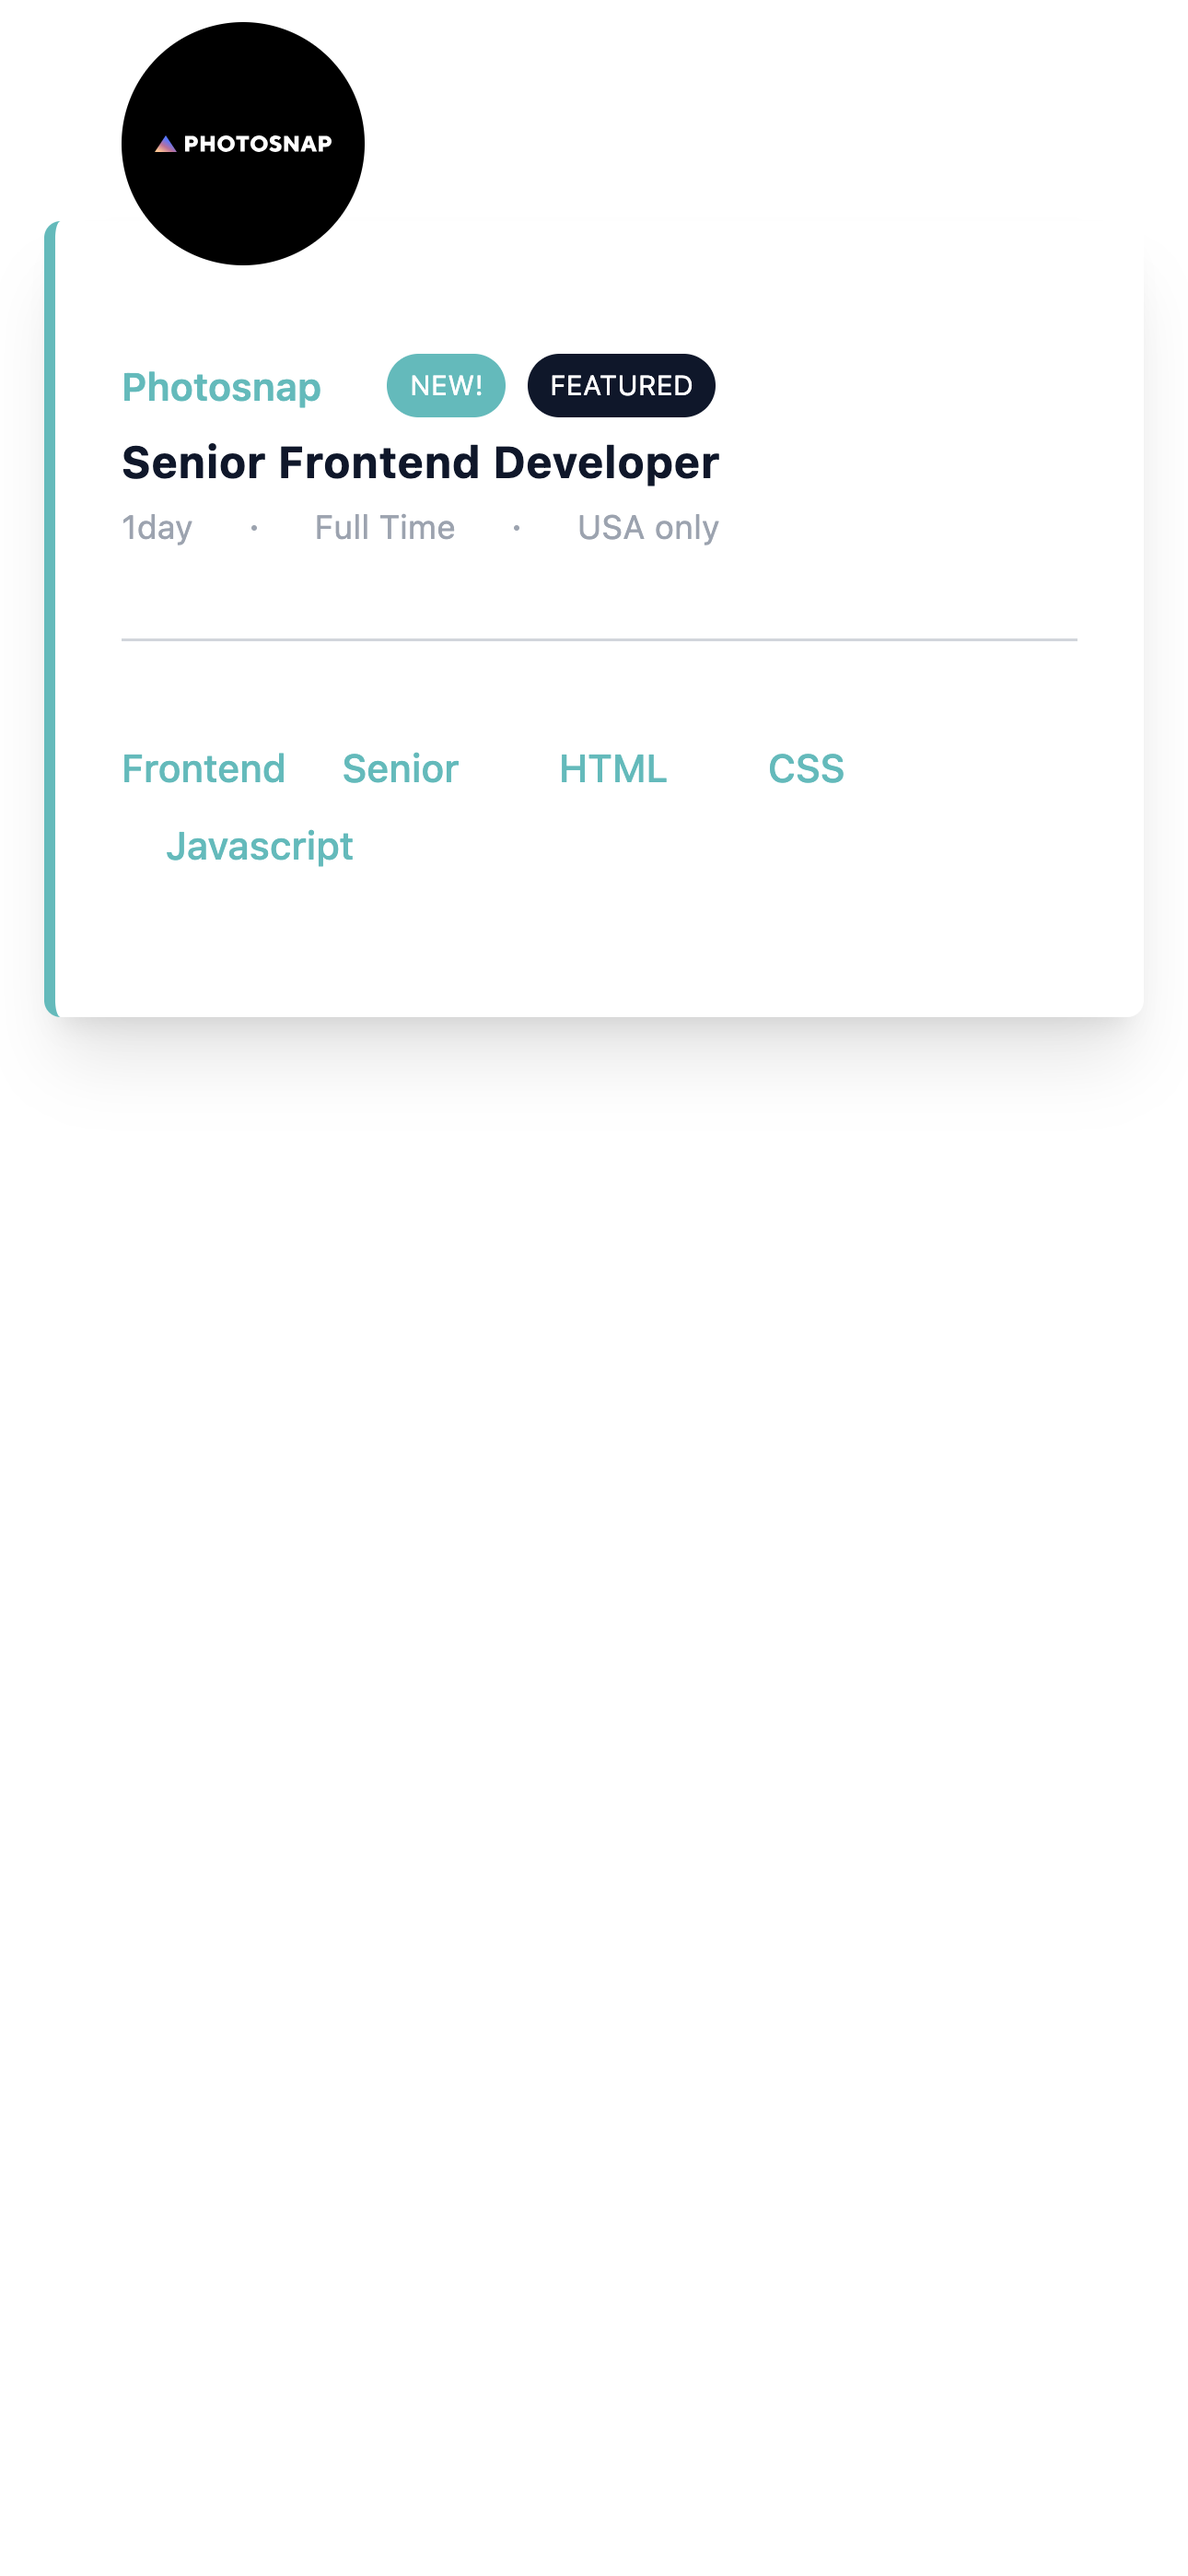
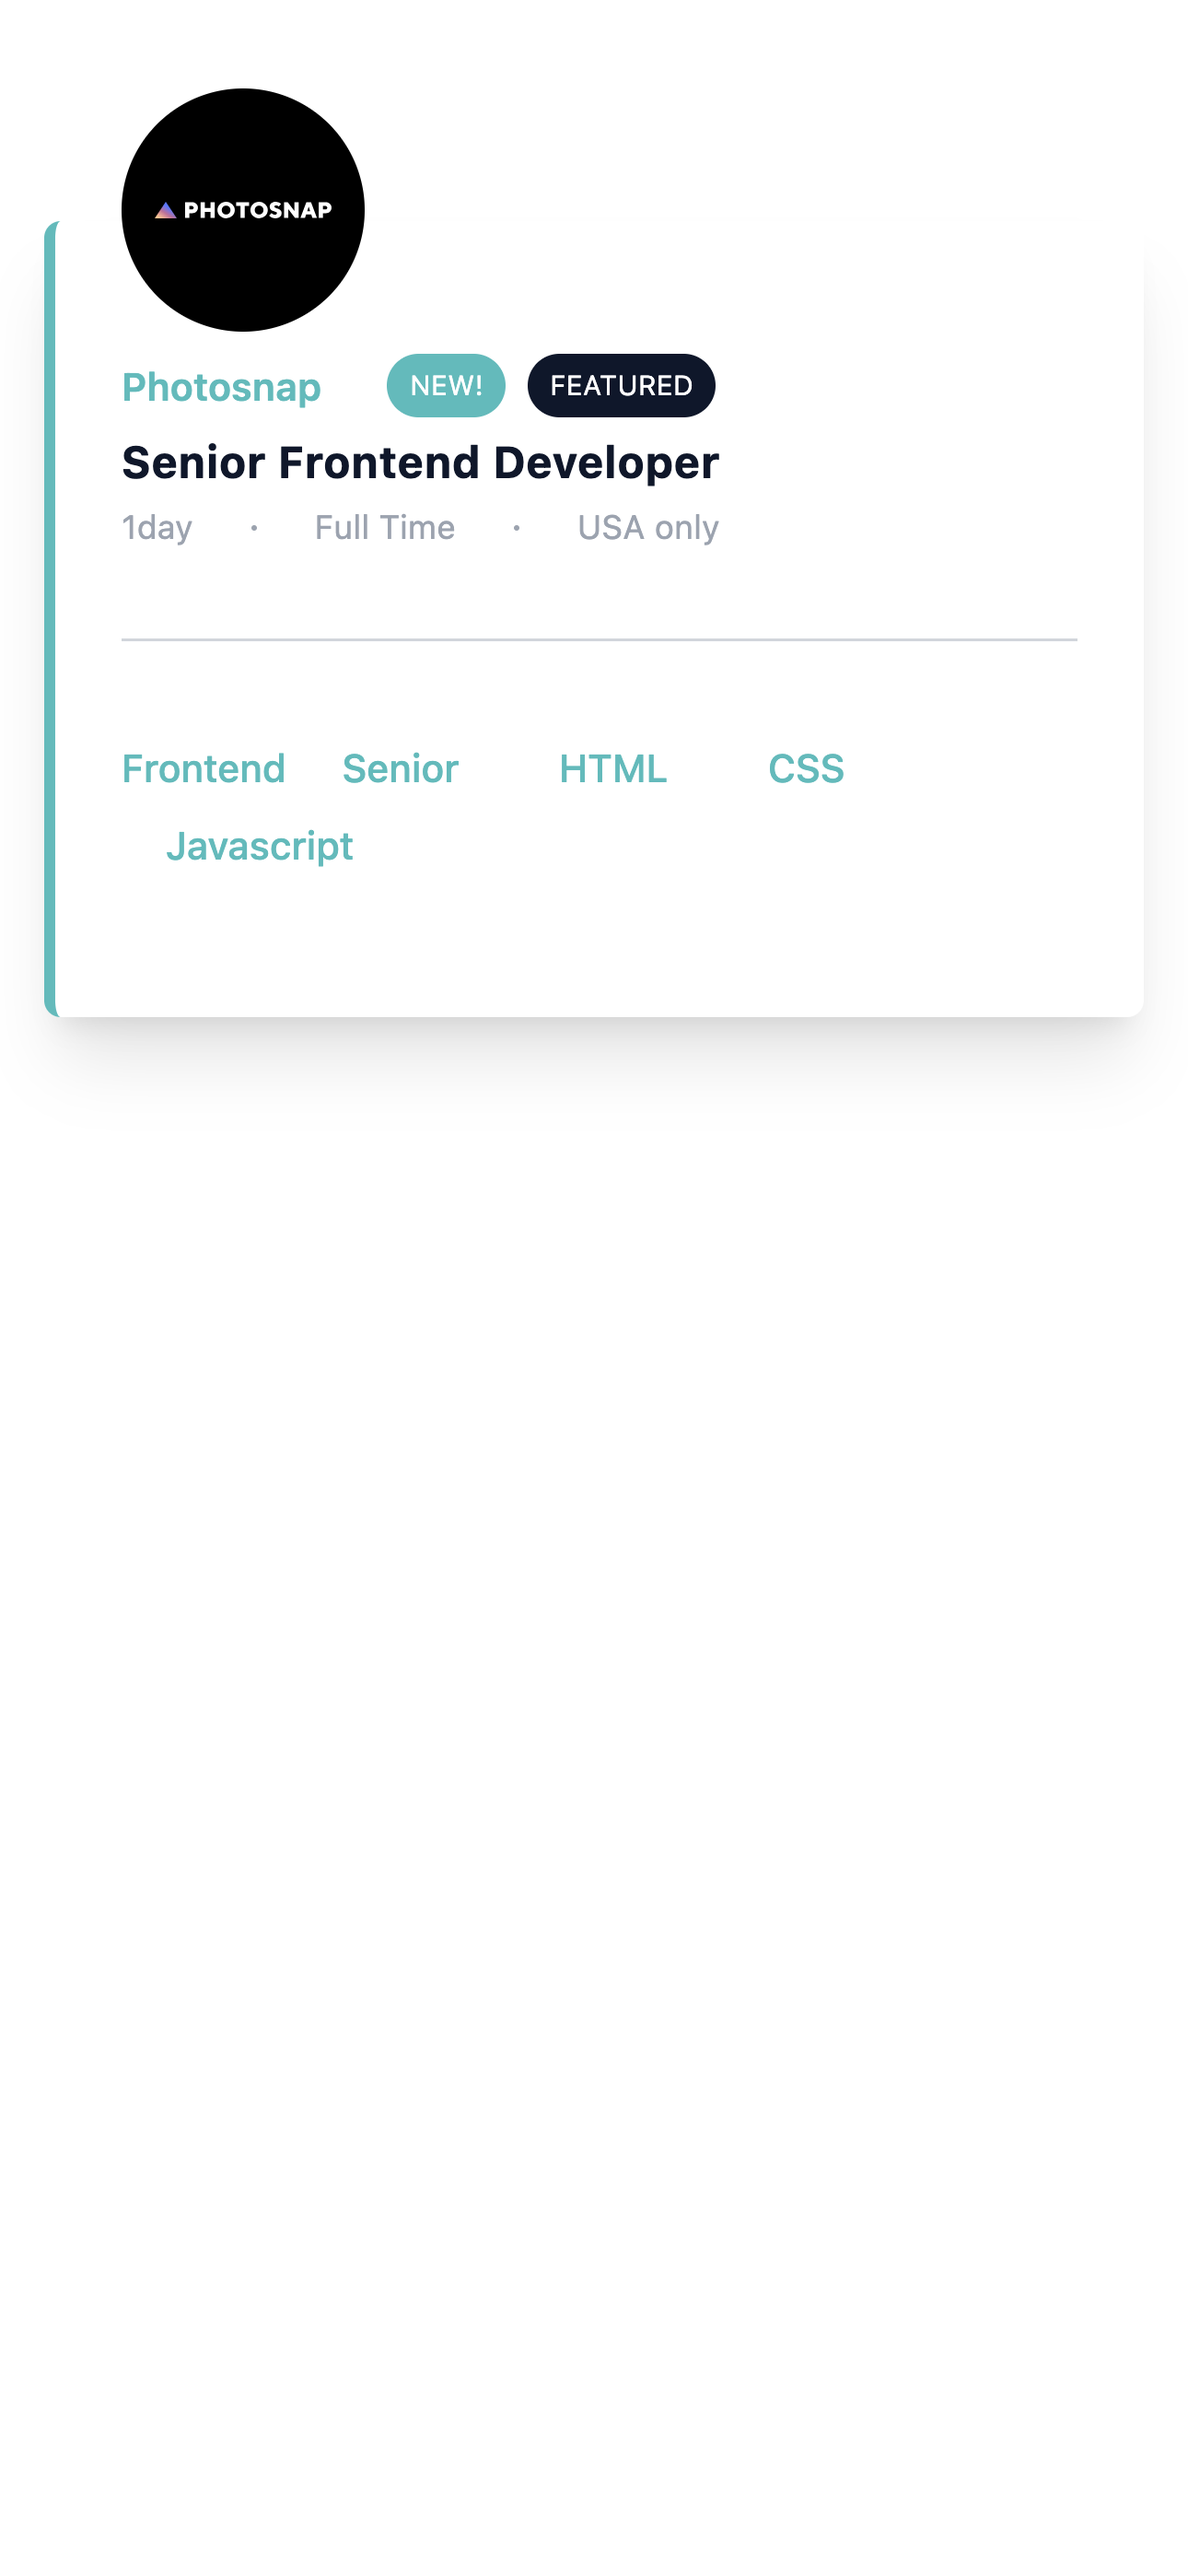
Fixed:Mobile-Pic

Changed region(s): [[0.093, 0.0, 0.3101, 0.1556]]

diff --git a/src/output.css b/src/output.css
@@ -554,40 +554,6 @@ video {
   --tw-contain-style:  ;
 }
 
-.container {
-  width: 100%;
-}
-
-@media (min-width: 640px) {
-  .container {
-    max-width: 640px;
-  }
-}
-
-@media (min-width: 768px) {
-  .container {
-    max-width: 768px;
-  }
-}
-
-@media (min-width: 1024px) {
-  .container {
-    max-width: 1024px;
-  }
-}
-
-@media (min-width: 1280px) {
-  .container {
-    max-width: 1280px;
-  }
-}
-
-@media (min-width: 1536px) {
-  .container {
-    max-width: 1536px;
-  }
-}
-
 .rightNav {
   display: inline-block;
   border-radius: 0.125rem;
@@ -631,6 +597,18 @@ video {
 
 .-top-1\/4 {
   top: -25%;
+}
+
+.-top-\[50\%\] {
+  top: -50%;
+}
+
+.-top-\[10\%\] {
+  top: -10%;
+}
+
+.-top-\[3rem\] {
+  top: -3rem;
 }
 
 .flex {
@@ -714,6 +692,11 @@ video {
   border-color: rgb(100 186 187 / var(--tw-border-opacity));
 }
 
+.bg-gray-300 {
+  --tw-bg-opacity: 1;
+  background-color: rgb(209 213 219 / var(--tw-bg-opacity));
+}
+
 .bg-primaryColor {
   --tw-bg-opacity: 1;
   background-color: rgb(15 23 42 / var(--tw-bg-opacity));
@@ -722,21 +705,6 @@ video {
 .bg-secondaryColor {
   --tw-bg-opacity: 1;
   background-color: rgb(100 186 187 / var(--tw-bg-opacity));
-}
-
-.bg-gray-500 {
-  --tw-bg-opacity: 1;
-  background-color: rgb(107 114 128 / var(--tw-bg-opacity));
-}
-
-.bg-gray-400 {
-  --tw-bg-opacity: 1;
-  background-color: rgb(156 163 175 / var(--tw-bg-opacity));
-}
-
-.bg-gray-300 {
-  --tw-bg-opacity: 1;
-  background-color: rgb(209 213 219 / var(--tw-bg-opacity));
 }
 
 .p-6 {
@@ -761,11 +729,6 @@ video {
 .py-12 {
   padding-top: 3rem;
   padding-bottom: 3rem;
-}
-
-.py-2 {
-  padding-top: 0.5rem;
-  padding-bottom: 0.5rem;
 }
 
 .py-\[\.5px\] {

diff --git a/src/index.html b/src/index.html
@@ -11,7 +11,7 @@
     <div class="max-w-5xl sm:mx-auto sm:pt-8 pt-20 px-4">
         <div class="flex sm:flex-row flex-col justify-between sm:items-center shadow-xl border-l-4 border-secondaryColor sm:p-8 p-6 rounded-md relative sm:static py-12 gap-8">
             <div class="Left  flex sm:flex-row flex-col justify-between sm:items-center items-start gap-4">
-                <div class="flex-none absolute sm:static -top-1/4"> 
+                <div class="flex-none absolute sm:static -top-[3rem]"> 
                     <img src="../images/photosnap.svg" alt="photosnap"/>
                 </div>
                 <div class="flex flex-col justify-center items-start gap-1 sm:gap-2"> 

diff --git a/readme.md b/readme.md
@@ -1,5 +1,5 @@
 ## Desktop View
-![PC]()
+![PC](https://github.com/bzamanbd/Tailwind-Job-List/blob/master/images/pc.png?raw=true)
 
 ## Mobile View
 ![Phone]()
